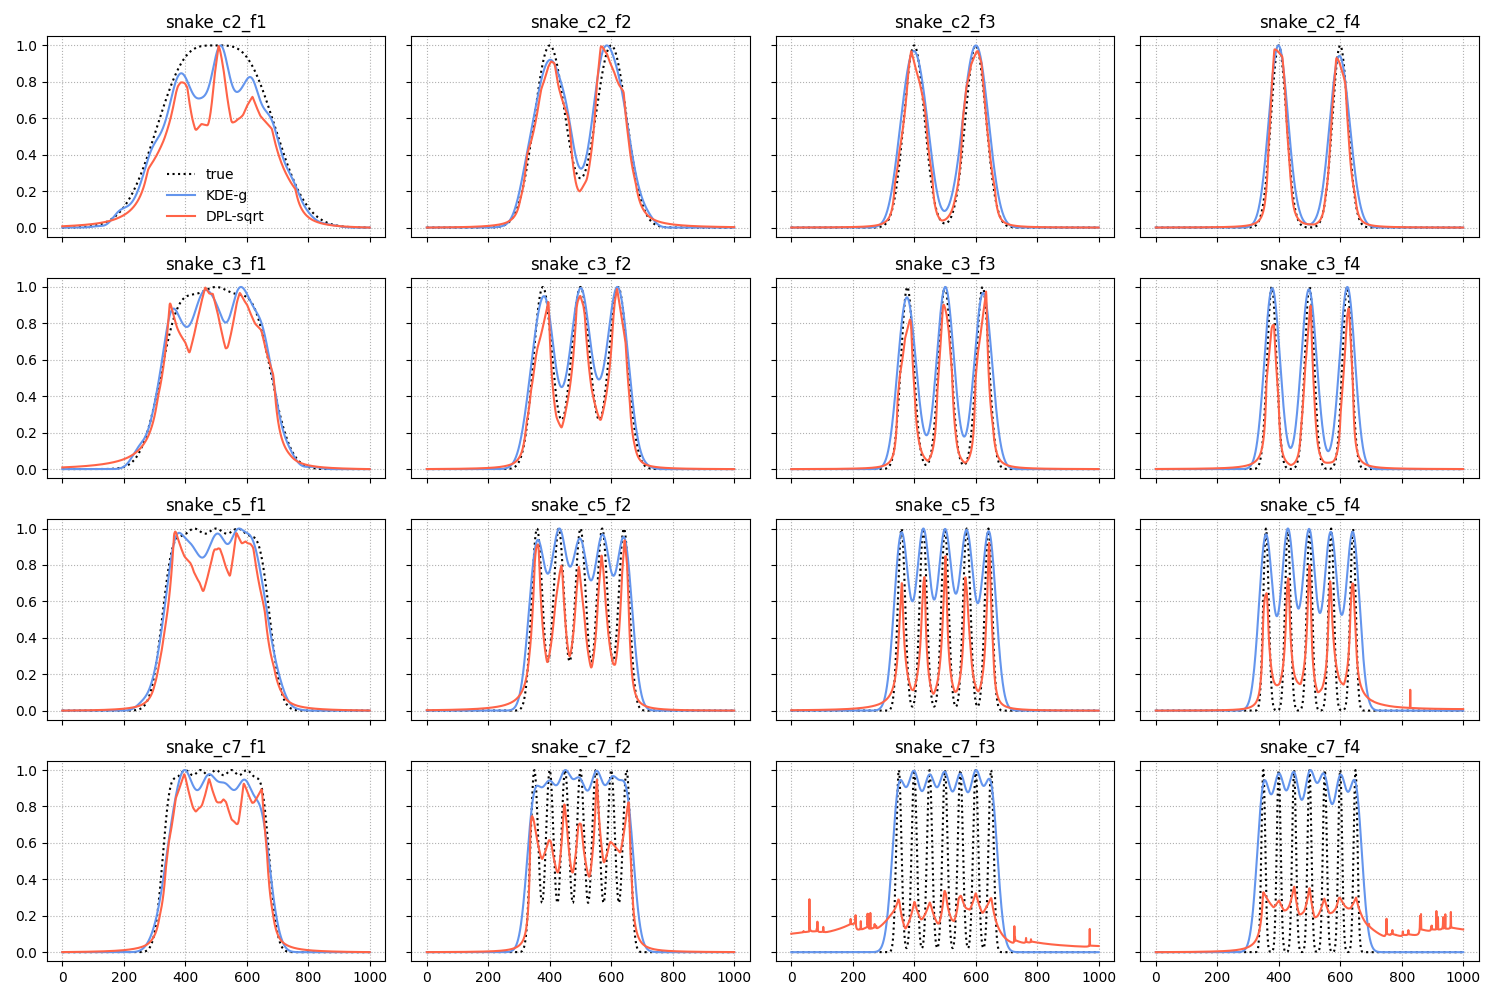
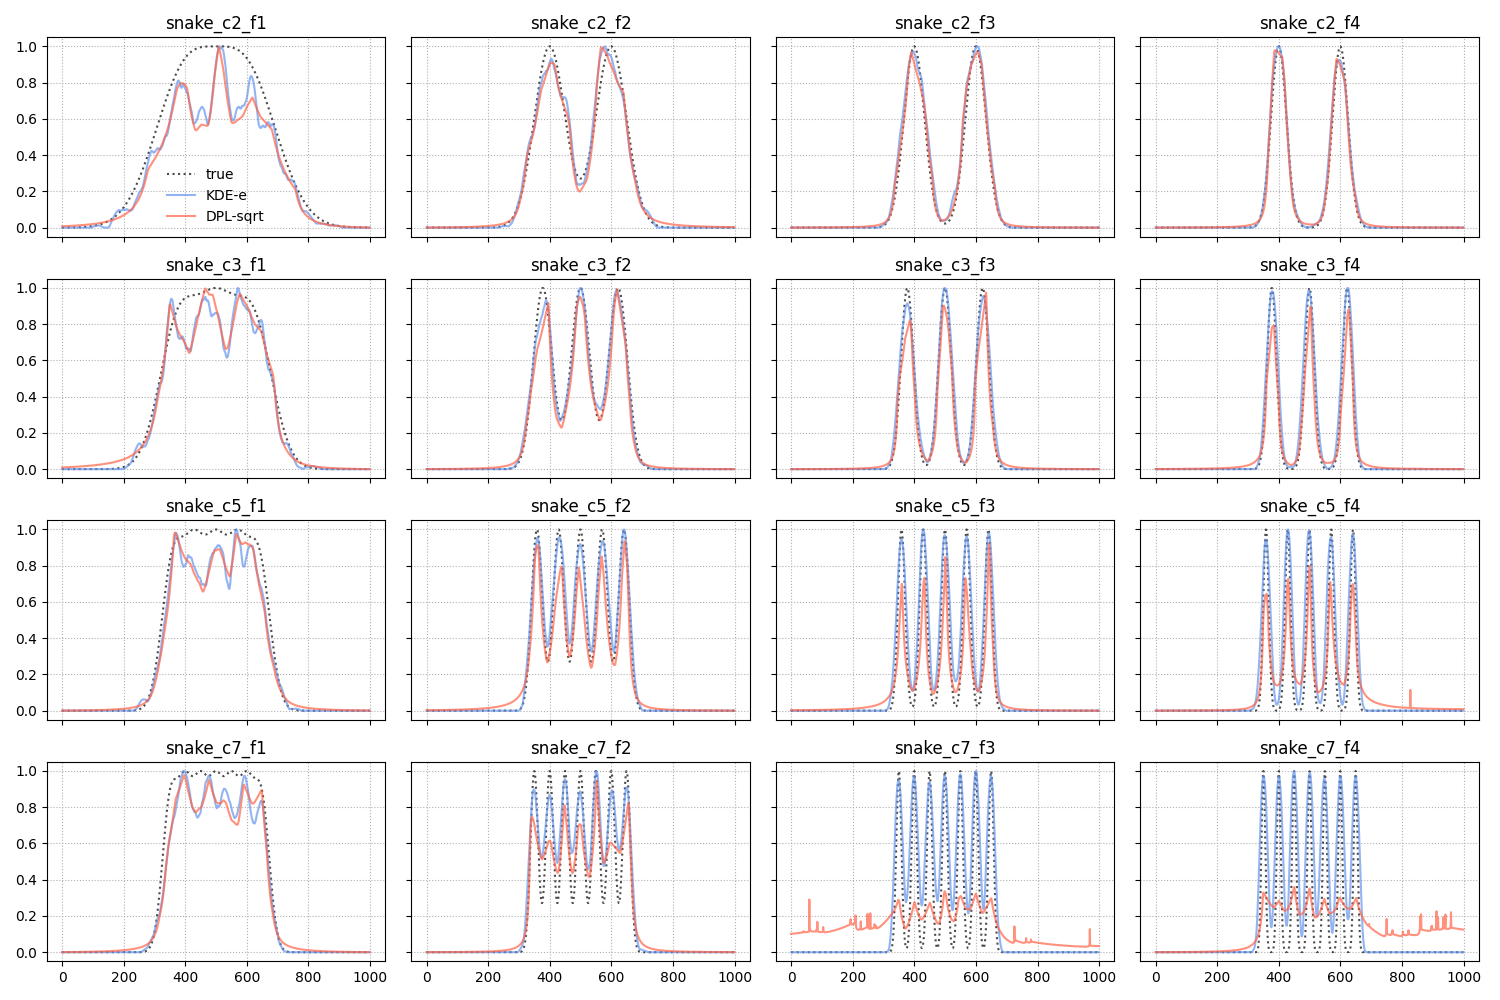
plots e3_1d

diff --git a/E3_1d_plot.py b/E3_1d_plot.py
@@ -12,9 +12,9 @@ for n_c in n_centroids:
         dataset_names.append('snake_c%i_f%i' % (n_c, f))
 
 print(dataset_names, len(dataset_names))
+
 ###
 
-res = np.load('results/E3_1d.npy')
 res_pred = np.load('results/E3_1d_v.npy')
 
 res_pred = np.mean(res_pred, axis=0)
@@ -30,9 +30,9 @@ cols=['black', 'cornflowerblue','cornflowerblue','cornflowerblue','tomato','toma
 
 for d_id, d in enumerate(dataset_names):
     for est_id, est in enumerate(labels):
-        if est_id in [2,3,4,6,7]:
+        if est_id in [2,1,4,6,7]:
             continue
-        ax[d_id].plot(res_pred[d_id, est_id], label=est, ls=ls[est_id], c=cols[est_id])
+        ax[d_id].plot(res_pred[d_id, est_id], label=est, ls=ls[est_id], c=cols[est_id], alpha=0.7)
     
     ax[d_id].set_title(d)
     ax[d_id].grid(ls=':')
@@ -42,3 +42,25 @@ ax[0].legend(frameon=False)
 plt.tight_layout()
 plt.savefig('figures/E3_1d.png')
 
+
+###
+
+res = np.load('results/E3_1d.npy')
+res = np.mean(res, axis=0)[:,:,-1,] # last iteration
+
+
+# Plot imgs
+labels = ['KDE-g', 'KDE-t', 'KDE-e', 'DPL-none', 'DPL-sqrt', 'DPL-log', 'DPL-std_norm']
+
+fig, ax = plt.subplots(1,3,figsize=(10,7), sharex=True, sharey=True)
+
+for m_id, m in enumerate(['Statistic', 'MSE', 'MAE']):
+    ax[m_id].imshow(res[:,:,m_id], cmap='coolwarm')
+    
+    ax[m_id].set_title(m)
+    ax[m_id].grid(ls=':')
+    ax[m_id].set_xticks(np.arange(len(labels)), labels, rotation=90)
+    ax[m_id].set_yticks(np.arange(len(dataset_names)), dataset_names)
+            
+plt.tight_layout()
+plt.savefig('figures/E3_1d_err.png')
